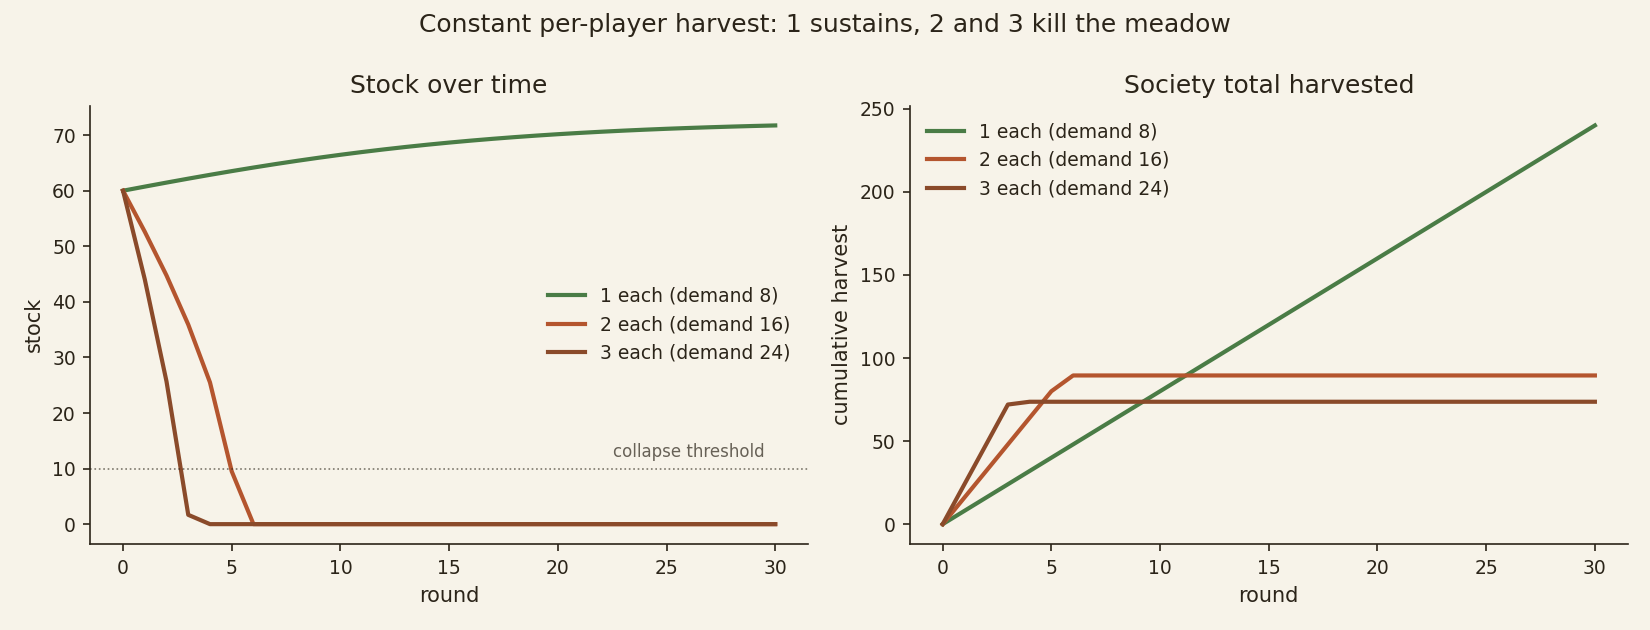
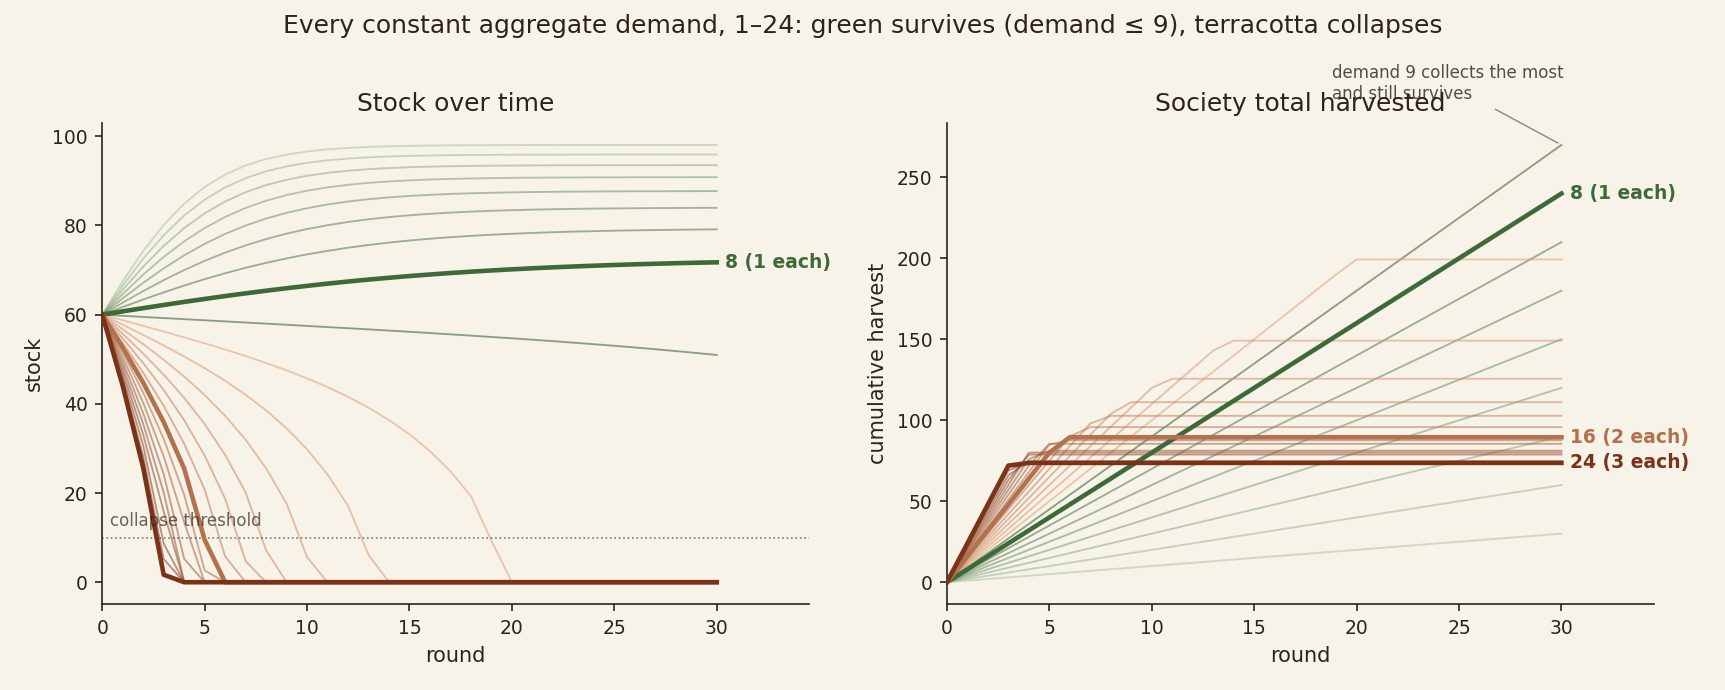
figures: granular constant-demand chart (all 24 levels) + interactive hoverable version

diff --git a/docs/assets/fig_constant_harvest.html b/docs/assets/fig_constant_harvest.html
@@ -1,0 +1,126 @@
+<!doctype html>
+<html lang="en">
+<head>
+<meta charset="utf-8">
+<meta name="viewport" content="width=device-width, initial-scale=1">
+<title>Meadow — constant aggregate demand, 1 to 24</title>
+<style>
+  :root { --ink: #2b2419; --paper: #f7f3e9; --faint: rgba(43,36,25,.14); }
+  * { box-sizing: border-box; margin: 0; }
+  body { background: var(--paper); color: var(--ink); font: 15px/1.45 Georgia, 'Times New Roman', serif; padding: 28px 20px 40px; }
+  .wrap { max-width: 1060px; margin: 0 auto; }
+  h1 { font-size: 19px; font-weight: 600; margin-bottom: 4px; }
+  .sub { font-size: 13px; opacity: .75; margin-bottom: 18px; }
+  .panels { display: flex; gap: 26px; flex-wrap: wrap; }
+  .panel { flex: 1 1 420px; min-width: 340px; }
+  .panel h2 { font-size: 14px; font-weight: 600; text-align: center; margin-bottom: 6px;
+              font-family: ui-monospace, 'SF Mono', Menlo, monospace; letter-spacing: .04em; }
+  svg { width: 100%; height: auto; display: block; }
+  .readout { margin-top: 14px; min-height: 3.2em; font-size: 13.5px; border-top: 1px solid var(--faint); padding-top: 10px; }
+  .readout b { font-family: ui-monospace, Menlo, monospace; }
+  .hint { opacity: .6; font-style: italic; }
+</style>
+</head>
+<body>
+<div class="wrap">
+  <h1>Every constant aggregate demand, 1&ndash;24</h1>
+  <div class="sub">Eight players, capacity 100, start 60, regrowth 0.35&middot;s&middot;(1&minus;s/100), collapse below 10, 30 rounds.
+  Green demands survive; terracotta demands kill the meadow. Bold: 8 (1 each), 16 (2 each), 24 (3 each).</div>
+  <div class="panels">
+    <div class="panel"><h2>STOCK OVER TIME</h2><svg id="stock" viewBox="0 0 560 340"></svg></div>
+    <div class="panel"><h2>SOCIETY TOTAL HARVESTED</h2><svg id="cum" viewBox="0 0 560 340"></svg></div>
+  </div>
+  <div class="readout" id="readout"><span class="hint">Hover (or tap) a line to isolate one demand level.</span></div>
+</div>
+<script>
+const DATA = {"1": {"stock": [60.0, 67.47, 74.27, 80.12, 84.9, 88.63, 91.42, 93.46, 94.9, 95.9, 96.6, 97.07, 97.39, 97.61, 97.76, 97.85, 97.92, 97.97, 98.0, 98.02, 98.03, 98.04, 98.04, 98.05, 98.05, 98.05, 98.05, 98.05, 98.06, 98.06, 98.06], "cumulative": [0.0, 1.0, 2.0, 3.0, 4.0, 5.0, 6.0, 7.0, 8.0, 9.0, 10.0, 11.0, 12.0, 13.0, 14.0, 15.0, 16.0, 17.0, 18.0, 19.0, 20.0, 21.0, 22.0, 23.0, 24.0, 25.0, 26.0, 27.0, 28.0, 29.0, 30.0], "survived": true}, "2": {"stock": [60.0, 66.53, 72.54, 77.81, 82.23, 85.78, 88.54, 90.61, 92.15, 93.25, 94.05, 94.61, 95.01, 95.28, 95.48, 95.61, 95.7, 95.77, 95.81, 95.84, 95.87, 95.88, 95.89, 95.9, 95.9, 95.91, 95.91, 95.91, 95.91, 95.91, 95.91], "cumulative": [0.0, 2.0, 4.0, 6.0, 8.0, 10.0, 12.0, 14.0, 16.0, 18.0, 20.0, 22.0, 24.0, 26.0, 28.0, 30.0, 32.0, 34.0, 36.0, 38.0, 40.0, 42.0, 44.0, 46.0, 48.0, 50.0, 52.0, 54.0, 56.0, 58.0, 60.0], "survived": true}, "3": {"stock": [60.0, 65.58, 70.77, 75.42, 79.41, 82.72, 85.38, 87.46, 89.05, 90.25, 91.15, 91.8, 92.28, 92.63, 92.88, 93.07, 93.2, 93.29, 93.36, 93.41, 93.44, 93.47, 93.49, 93.5, 93.51, 93.52, 93.52, 93.52, 93.53, 93.53, 93.53], "cumulative": [0.0, 3.0, 6.0, 9.0, 12.0, 15.0, 18.0, 21.0, 24.0, 27.0, 30.0, 33.0, 36.0, 39.0, 42.0, 45.0, 48.0, 51.0, 54.0, 57.0, 60.0, 63.0, 66.0, 69.0, 72.0, 75.0, 78.0, 81.0, 84.0, 87.0, 90.0], "survived": true}, "4": {"stock": [60.0, 64.62, 68.98, 72.94, 76.44, 79.43, 81.91, 83.94, 85.55, 86.82, 87.8, 88.55, 89.12, 89.55, 89.88, 90.12, 90.31, 90.44, 90.54, 90.62, 90.68, 90.72, 90.75, 90.77, 90.79, 90.8, 90.81, 90.82, 90.82, 90.83, 90.83], "cumulative": [0.0, 4.0, 8.0, 12.0, 16.0, 20.0, 24.0, 28.0, 32.0, 36.0, 40.0, 44.0, 48.0, 52.0, 56.0, 60.0, 64.0, 68.0, 72.0, 76.0, 80.0, 84.0, 88.0, 92.0, 96.0, 100.0, 104.0, 108.0, 112.0, 116.0, 120.0], "survived": true}, "5": {"stock": [60.0, 63.66, 67.15, 70.38, 73.3, 75.88, 78.11, 79.99, 81.55, 82.83, 83.87, 84.71, 85.37, 85.89, 86.3, 86.62, 86.87, 87.07, 87.22, 87.33, 87.43, 87.5, 87.55, 87.59, 87.62, 87.65, 87.67, 87.68, 87.69, 87.7, 87.71], "cumulative": [0.0, 5.0, 10.0, 15.0, 20.0, 25.0, 30.0, 35.0, 40.0, 45.0, 50.0, 55.0, 60.0, 65.0, 70.0, 75.0, 80.0, 85.0, 90.0, 95.0, 100.0, 105.0, 110.0, 115.0, 120.0, 125.0, 130.0, 135.0, 140.0, 145.0, 150.0], "survived": true}, "6": {"stock": [60.0, 62.69, 65.29, 67.74, 70.0, 72.07, 73.91, 75.54, 76.95, 78.17, 79.2, 80.06, 80.79, 81.39, 81.88, 82.29, 82.62, 82.89, 83.11, 83.29, 83.43, 83.55, 83.64, 83.72, 83.78, 83.83, 83.87, 83.9, 83.92, 83.95, 83.96], "cumulative": [0.0, 6.0, 12.0, 18.0, 24.0, 30.0, 36.0, 42.0, 48.0, 54.0, 60.0, 66.0, 72.0, 78.0, 84.0, 90.0, 96.0, 102.0, 108.0, 114.0, 120.0, 126.0, 132.0, 138.0, 144.0, 150.0, 156.0, 162.0, 168.0, 174.0, 180.0], "survived": true}, "7": {"stock": [60.0, 61.72, 63.39, 65.0, 66.52, 67.96, 69.29, 70.51, 71.62, 72.62, 73.52, 74.31, 75.01, 75.63, 76.16, 76.63, 77.03, 77.38, 77.67, 77.93, 78.14, 78.33, 78.49, 78.62, 78.73, 78.83, 78.91, 78.98, 79.04, 79.09, 79.13], "cumulative": [0.0, 7.0, 14.0, 21.0, 28.0, 35.0, 42.0, 49.0, 56.0, 63.0, 70.0, 77.0, 84.0, 91.0, 98.0, 105.0, 112.0, 119.0, 126.0, 133.0, 140.0, 147.0, 154.0, 161.0, 168.0, 175.0, 182.0, 189.0, 196.0, 203.0, 210.0], "survived": true}, "8": {"stock": [60.0, 60.74, 61.46, 62.17, 62.86, 63.52, 64.17, 64.78, 65.37, 65.93, 66.46, 66.96, 67.43, 67.87, 68.28, 68.66, 69.01, 69.34, 69.64, 69.91, 70.17, 70.4, 70.61, 70.8, 70.98, 71.14, 71.29, 71.42, 71.54, 71.65, 71.74], "cumulative": [0.0, 8.0, 16.0, 24.0, 32.0, 40.0, 48.0, 56.0, 64.0, 72.0, 80.0, 88.0, 96.0, 104.0, 112.0, 120.0, 128.0, 136.0, 144.0, 152.0, 160.0, 168.0, 176.0, 184.0, 192.0, 200.0, 208.0, 216.0, 224.0, 232.0, 240.0], "survived": true}, "9": {"stock": [60.0, 59.75, 59.49, 59.24, 58.99, 58.74, 58.49, 58.24, 57.99, 57.74, 57.48, 57.22, 56.96, 56.7, 56.43, 56.16, 55.88, 55.59, 55.3, 55.0, 54.7, 54.38, 54.06, 53.72, 53.38, 53.02, 52.64, 52.25, 51.84, 51.41, 50.96], "cumulative": [0.0, 9.0, 18.0, 27.0, 36.0, 45.0, 54.0, 63.0, 72.0, 81.0, 90.0, 99.0, 108.0, 117.0, 126.0, 135.0, 144.0, 153.0, 162.0, 171.0, 180.0, 189.0, 198.0, 207.0, 216.0, 225.0, 234.0, 243.0, 252.0, 261.0, 270.0], "survived": true}, "10": {"stock": [60.0, 58.75, 57.49, 56.22, 54.92, 53.58, 52.19, 50.72, 49.17, 47.51, 45.72, 43.75, 41.58, 39.14, 36.37, 33.17, 29.39, 24.87, 19.3, 9.3, 0.0, 0.0, 0.0, 0.0, 0.0, 0.0, 0.0, 0.0, 0.0, 0.0, 0.0], "cumulative": [0.0, 10.0, 20.0, 30.0, 40.0, 50.0, 60.0, 70.0, 80.0, 90.0, 100.0, 110.0, 120.0, 130.0, 140.0, 150.0, 160.0, 170.0, 180.0, 190.0, 199.3, 199.3, 199.3, 199.3, 199.3, 199.3, 199.3, 199.3, 199.3, 199.3, 199.3], "survived": false}, "11": {"stock": [60.0, 57.75, 55.46, 53.1, 50.63, 48.01, 45.17, 42.04, 38.53, 34.51, 29.81, 24.15, 17.15, 6.15, 0.0, 0.0, 0.0, 0.0, 0.0, 0.0, 0.0, 0.0, 0.0, 0.0, 0.0, 0.0, 0.0, 0.0, 0.0, 0.0, 0.0], "cumulative": [0.0, 11.0, 22.0, 33.0, 44.0, 55.0, 66.0, 77.0, 88.0, 99.0, 110.0, 121.0, 132.0, 143.0, 149.15, 149.15, 149.15, 149.15, 149.15, 149.15, 149.15, 149.15, 149.15, 149.15, 149.15, 149.15, 149.15, 149.15, 149.15, 149.15, 149.15], "survived": false}, "12": {"stock": [60.0, 56.74, 53.39, 49.88, 46.12, 41.98, 37.33, 31.95, 25.54, 17.64, 5.64, 0.0, 0.0, 0.0, 0.0, 0.0, 0.0, 0.0, 0.0, 0.0, 0.0, 0.0, 0.0, 0.0, 0.0, 0.0, 0.0, 0.0, 0.0, 0.0, 0.0], "cumulative": [0.0, 12.0, 24.0, 36.0, 48.0, 60.0, 72.0, 84.0, 96.0, 108.0, 120.0, 125.64, 125.64, 125.64, 125.64, 125.64, 125.64, 125.64, 125.64, 125.64, 125.64, 125.64, 125.64, 125.64, 125.64, 125.64, 125.64, 125.64, 125.64, 125.64, 125.64], "survived": false}, "13": {"stock": [60.0, 55.72, 51.28, 46.55, 41.36, 35.47, 28.56, 20.16, 7.16, 0.0, 0.0, 0.0, 0.0, 0.0, 0.0, 0.0, 0.0, 0.0, 0.0, 0.0, 0.0, 0.0, 0.0, 0.0, 0.0, 0.0, 0.0, 0.0, 0.0, 0.0, 0.0], "cumulative": [0.0, 13.0, 26.0, 39.0, 52.0, 65.0, 78.0, 91.0, 104.0, 111.16, 111.16, 111.16, 111.16, 111.16, 111.16, 111.16, 111.16, 111.16, 111.16, 111.16, 111.16, 111.16, 111.16, 111.16, 111.16, 111.16, 111.16, 111.16, 111.16, 111.16, 111.16], "survived": false}, "14": {"stock": [60.0, 54.69, 49.14, 43.12, 36.34, 28.41, 18.73, 4.73, 0.0, 0.0, 0.0, 0.0, 0.0, 0.0, 0.0, 0.0, 0.0, 0.0, 0.0, 0.0, 0.0, 0.0, 0.0, 0.0, 0.0, 0.0, 0.0, 0.0, 0.0, 0.0, 0.0], "cumulative": [0.0, 14.0, 28.0, 42.0, 56.0, 70.0, 84.0, 98.0, 102.73, 102.73, 102.73, 102.73, 102.73, 102.73, 102.73, 102.73, 102.73, 102.73, 102.73, 102.73, 102.73, 102.73, 102.73, 102.73, 102.73, 102.73, 102.73, 102.73, 102.73, 102.73, 102.73], "survived": false}, "15": {"stock": [60.0, 53.66, 46.96, 39.57, 31.06, 20.78, 5.78, 0.0, 0.0, 0.0, 0.0, 0.0, 0.0, 0.0, 0.0, 0.0, 0.0, 0.0, 0.0, 0.0, 0.0, 0.0, 0.0, 0.0, 0.0, 0.0, 0.0, 0.0, 0.0, 0.0, 0.0], "cumulative": [0.0, 15.0, 30.0, 45.0, 60.0, 75.0, 90.0, 95.78, 95.78, 95.78, 95.78, 95.78, 95.78, 95.78, 95.78, 95.78, 95.78, 95.78, 95.78, 95.78, 95.78, 95.78, 95.78, 95.78, 95.78, 95.78, 95.78, 95.78, 95.78, 95.78, 95.78], "survived": false}, "16": {"stock": [60.0, 52.62, 44.75, 35.92, 25.5, 9.5, 0.0, 0.0, 0.0, 0.0, 0.0, 0.0, 0.0, 0.0, 0.0, 0.0, 0.0, 0.0, 0.0, 0.0, 0.0, 0.0, 0.0, 0.0, 0.0, 0.0, 0.0, 0.0, 0.0, 0.0, 0.0], "cumulative": [0.0, 16.0, 32.0, 48.0, 64.0, 80.0, 89.5, 89.5, 89.5, 89.5, 89.5, 89.5, 89.5, 89.5, 89.5, 89.5, 89.5, 89.5, 89.5, 89.5, 89.5, 89.5, 89.5, 89.5, 89.5, 89.5, 89.5, 89.5, 89.5, 89.5, 89.5], "survived": false}, "17": {"stock": [60.0, 51.58, 42.5, 32.14, 19.64, 2.64, 0.0, 0.0, 0.0, 0.0, 0.0, 0.0, 0.0, 0.0, 0.0, 0.0, 0.0, 0.0, 0.0, 0.0, 0.0, 0.0, 0.0, 0.0, 0.0, 0.0, 0.0, 0.0, 0.0, 0.0, 0.0], "cumulative": [0.0, 17.0, 34.0, 51.0, 68.0, 85.0, 87.64, 87.64, 87.64, 87.64, 87.64, 87.64, 87.64, 87.64, 87.64, 87.64, 87.64, 87.64, 87.64, 87.64, 87.64, 87.64, 87.64, 87.64, 87.64, 87.64, 87.64, 87.64, 87.64, 87.64, 87.64], "survived": false}, "18": {"stock": [60.0, 50.53, 40.21, 28.25, 13.47, 0.0, 0.0, 0.0, 0.0, 0.0, 0.0, 0.0, 0.0, 0.0, 0.0, 0.0, 0.0, 0.0, 0.0, 0.0, 0.0, 0.0, 0.0, 0.0, 0.0, 0.0, 0.0, 0.0, 0.0, 0.0, 0.0], "cumulative": [0.0, 18.0, 36.0, 54.0, 72.0, 85.47, 85.47, 85.47, 85.47, 85.47, 85.47, 85.47, 85.47, 85.47, 85.47, 85.47, 85.47, 85.47, 85.47, 85.47, 85.47, 85.47, 85.47, 85.47, 85.47, 85.47, 85.47, 85.47, 85.47, 85.47, 85.47], "survived": false}, "19": {"stock": [60.0, 49.47, 37.88, 24.24, 5.24, 0.0, 0.0, 0.0, 0.0, 0.0, 0.0, 0.0, 0.0, 0.0, 0.0, 0.0, 0.0, 0.0, 0.0, 0.0, 0.0, 0.0, 0.0, 0.0, 0.0, 0.0, 0.0, 0.0, 0.0, 0.0, 0.0], "cumulative": [0.0, 19.0, 38.0, 57.0, 76.0, 81.24, 81.24, 81.24, 81.24, 81.24, 81.24, 81.24, 81.24, 81.24, 81.24, 81.24, 81.24, 81.24, 81.24, 81.24, 81.24, 81.24, 81.24, 81.24, 81.24, 81.24, 81.24, 81.24, 81.24, 81.24, 81.24], "survived": false}, "20": {"stock": [60.0, 48.4, 35.52, 20.11, 0.11, 0.0, 0.0, 0.0, 0.0, 0.0, 0.0, 0.0, 0.0, 0.0, 0.0, 0.0, 0.0, 0.0, 0.0, 0.0, 0.0, 0.0, 0.0, 0.0, 0.0, 0.0, 0.0, 0.0, 0.0, 0.0, 0.0], "cumulative": [0.0, 20.0, 40.0, 60.0, 80.0, 80.11, 80.11, 80.11, 80.11, 80.11, 80.11, 80.11, 80.11, 80.11, 80.11, 80.11, 80.11, 80.11, 80.11, 80.11, 80.11, 80.11, 80.11, 80.11, 80.11, 80.11, 80.11, 80.11, 80.11, 80.11, 80.11], "survived": false}, "21": {"stock": [60.0, 47.33, 33.11, 15.84, 0.0, 0.0, 0.0, 0.0, 0.0, 0.0, 0.0, 0.0, 0.0, 0.0, 0.0, 0.0, 0.0, 0.0, 0.0, 0.0, 0.0, 0.0, 0.0, 0.0, 0.0, 0.0, 0.0, 0.0, 0.0, 0.0, 0.0], "cumulative": [0.0, 21.0, 42.0, 63.0, 78.84, 78.84, 78.84, 78.84, 78.84, 78.84, 78.84, 78.84, 78.84, 78.84, 78.84, 78.84, 78.84, 78.84, 78.84, 78.84, 78.84, 78.84, 78.84, 78.84, 78.84, 78.84, 78.84, 78.84, 78.84, 78.84, 78.84], "survived": false}, "22": {"stock": [60.0, 46.25, 30.67, 8.67, 0.0, 0.0, 0.0, 0.0, 0.0, 0.0, 0.0, 0.0, 0.0, 0.0, 0.0, 0.0, 0.0, 0.0, 0.0, 0.0, 0.0, 0.0, 0.0, 0.0, 0.0, 0.0, 0.0, 0.0, 0.0, 0.0, 0.0], "cumulative": [0.0, 22.0, 44.0, 66.0, 74.67, 74.67, 74.67, 74.67, 74.67, 74.67, 74.67, 74.67, 74.67, 74.67, 74.67, 74.67, 74.67, 74.67, 74.67, 74.67, 74.67, 74.67, 74.67, 74.67, 74.67, 74.67, 74.67, 74.67, 74.67, 74.67, 74.67], "survived": false}, "23": {"stock": [60.0, 45.16, 28.2, 5.2, 0.0, 0.0, 0.0, 0.0, 0.0, 0.0, 0.0, 0.0, 0.0, 0.0, 0.0, 0.0, 0.0, 0.0, 0.0, 0.0, 0.0, 0.0, 0.0, 0.0, 0.0, 0.0, 0.0, 0.0, 0.0, 0.0, 0.0], "cumulative": [0.0, 23.0, 46.0, 69.0, 74.2, 74.2, 74.2, 74.2, 74.2, 74.2, 74.2, 74.2, 74.2, 74.2, 74.2, 74.2, 74.2, 74.2, 74.2, 74.2, 74.2, 74.2, 74.2, 74.2, 74.2, 74.2, 74.2, 74.2, 74.2, 74.2, 74.2], "survived": false}, "24": {"stock": [60.0, 44.06, 25.68, 1.68, 0.0, 0.0, 0.0, 0.0, 0.0, 0.0, 0.0, 0.0, 0.0, 0.0, 0.0, 0.0, 0.0, 0.0, 0.0, 0.0, 0.0, 0.0, 0.0, 0.0, 0.0, 0.0, 0.0, 0.0, 0.0, 0.0, 0.0], "cumulative": [0.0, 24.0, 48.0, 72.0, 73.68, 73.68, 73.68, 73.68, 73.68, 73.68, 73.68, 73.68, 73.68, 73.68, 73.68, 73.68, 73.68, 73.68, 73.68, 73.68, 73.68, 73.68, 73.68, 73.68, 73.68, 73.68, 73.68, 73.68, 73.68, 73.68, 73.68], "survived": false}};
+const INK = '#2b2419';
+const CALLOUTS = {8: '8 (1 each)', 16: '16 (2 each)', 24: '24 (3 each)'};
+const M = {l: 46, r: 78, t: 12, b: 34}, W = 560, H = 340;
+
+function colorFor(d) {
+  const v = DATA[d];
+  if (v.survived) { const t = (d - 1) / 8; return lerp3('#a8c4a0', '#2f5d2b', t); }
+  const t = (d - 10) / 14; return lerp3('#e0a075', '#7a3218', t);
+}
+function lerp3(a, b, t) {
+  const pa = [1, 3, 5].map(i => parseInt(a.slice(i, i + 2), 16));
+  const pb = [1, 3, 5].map(i => parseInt(b.slice(i, i + 2), 16));
+  return '#' + pa.map((v, i) => Math.round(v + (pb[i] - v) * t).toString(16).padStart(2, '0')).join('');
+}
+
+function buildPanel(svgId, key, yMax, yLabel) {
+  const svg = document.getElementById(svgId);
+  const ns = 'http://www.w3.org/2000/svg';
+  const px = r => M.l + (W - M.l - M.r) * r / 30;
+  const py = v => H - M.b - (H - M.t - M.b) * v / yMax;
+  const mk = (tag, attrs, parent) => { const el = document.createElementNS(ns, tag);
+    for (const [k, v] of Object.entries(attrs)) el.setAttribute(k, v); (parent || svg).appendChild(el); return el; };
+
+  for (let g = 0; g <= 4; g++) {
+    const v = yMax * g / 4;
+    mk('line', {x1: M.l, x2: W - M.r, y1: py(v), y2: py(v), stroke: 'rgba(43,36,25,.10)', 'stroke-width': 1});
+    mk('text', {x: M.l - 6, y: py(v) + 4, 'text-anchor': 'end', 'font-size': 10, fill: INK, opacity: .7}).textContent = Math.round(v);
+  }
+  for (let r = 0; r <= 30; r += 5) {
+    mk('text', {x: px(r), y: H - M.b + 16, 'text-anchor': 'middle', 'font-size': 10, fill: INK, opacity: .7}).textContent = r;
+  }
+  mk('text', {x: (M.l + W - M.r) / 2, y: H - 4, 'text-anchor': 'middle', 'font-size': 11, fill: INK, opacity: .8}).textContent = 'round';
+  if (key === 'stock') {
+    mk('line', {x1: M.l, x2: W - M.r, y1: py(10), y2: py(10), stroke: INK, 'stroke-width': 1, 'stroke-dasharray': '2 3', opacity: .5});
+    mk('text', {x: M.l + 4, y: py(10) - 5, 'font-size': 9.5, fill: INK, opacity: .6}).textContent = 'collapse threshold';
+  }
+
+  for (let d = 1; d <= 24; d++) {
+    const v = DATA[d][key];
+    const dAttr = v.map((y, i) => (i ? 'L' : 'M') + px(i).toFixed(1) + ' ' + py(y).toFixed(1)).join('');
+    const bold = d in CALLOUTS;
+    const path = mk('path', {d: dAttr, fill: 'none', stroke: colorFor(d),
+      'stroke-width': bold ? 2.4 : 1.1, opacity: bold ? 1 : .5, 'data-demand': d, class: 'demand-line'});
+    mk('path', {d: dAttr, fill: 'none', stroke: 'transparent', 'stroke-width': 9, 'data-demand': d, class: 'hit'});
+    if (bold && key === 'cum') {
+      mk('text', {x: px(30) + 5, y: py(v[30]) + 4, 'font-size': 10.5, 'font-weight': 'bold', fill: colorFor(d)}).textContent = CALLOUTS[d];
+    }
+  }
+  if (key === 'stock') {
+    mk('text', {x: px(30) + 5, y: py(DATA[8].stock[30]) + 4, 'font-size': 10.5, 'font-weight': 'bold', fill: colorFor(8)}).textContent = '8 (1 each)';
+  }
+}
+
+buildPanel('stock', 'stock', 100, 'stock');
+buildPanel('cum', 'cumulative', 280, 'cumulative harvest');
+
+const readout = document.getElementById('readout');
+function setFocus(d) {
+  document.querySelectorAll('.demand-line').forEach(p => {
+    const mine = +p.dataset.demand === d;
+    const bold = p.dataset.demand in CALLOUTS;
+    if (d === null) { p.setAttribute('opacity', bold ? 1 : .5); p.setAttribute('stroke-width', bold ? 2.4 : 1.1); }
+    else { p.setAttribute('opacity', mine ? 1 : .12); p.setAttribute('stroke-width', mine ? 2.6 : 1); }
+  });
+  if (d === null) {
+    readout.innerHTML = '<span class="hint">Hover (or tap) a line to isolate one demand level.</span>';
+  } else {
+    const v = DATA[d];
+    const per = d % 8 === 0 ? (d / 8) + ' each' : 'mixed seats averaging ' + (d / 8).toFixed(2);
+    const fate = v.survived
+      ? 'survives; final stock ' + v.stock[30].toFixed(1)
+      : 'collapses in round ' + v.stock.findIndex(s => s < 10);
+    readout.innerHTML = '<b>demand ' + d + '</b> (' + per + ') &mdash; ' + fate +
+      '; society collects <b>' + v.cumulative[30].toFixed(0) + '</b> over 30 rounds.';
+  }
+}
+document.querySelectorAll('svg').forEach(svg => {
+  svg.addEventListener('mousemove', e => {
+    const t = e.target.closest('[data-demand]');
+    setFocus(t ? +t.dataset.demand : null);
+  });
+  svg.addEventListener('mouseleave', () => setFocus(null));
+  svg.addEventListener('click', e => {
+    const t = e.target.closest('[data-demand]');
+    setFocus(t ? +t.dataset.demand : null);
+  });
+});
+</script>
+</body>
+</html>

diff --git a/docs/blog-post.md b/docs/blog-post.md
@@ -26,11 +26,15 @@ integer 0–3. The stock regrows by `0.35 · stock · (1 − stock/100)` per rou
 capacity. Below 10, the stock is dead permanently. An episode is 30 rounds (60 for scripted calibration); a
 player's score is its total harvest.
 
-The dynamics are unforgiving of small errors in aggregate demand. If all eight players harvest 1 per round
-(demand 8, just under peak regrowth), the stock grows while they harvest and the society collects more by round 10
-than a greedy society collects all game. At 2 each (demand 16), the stock is dead by round 6:
+The dynamics are unforgiving of small errors in aggregate demand. Holding every constant aggregate demand from 1
+to 24 fixed for 30 rounds: demand 9 and below survives, demand 10 and above kills the meadow. At 8 (1 per player),
+the stock grows while the society harvests, and it out-collects every greedy strategy by round 10. At 16 (2 each),
+the stock is dead by round 6:
 
 ![constant harvest](../experiments/results/fig_constant_harvest.png)
+
+*An [interactive version of this figure](assets/fig_constant_harvest.html) lets you hover to isolate any demand
+level (download and open in a browser, or view via the repo's pages deployment if enabled).*
 
 The social optimum is computable: a dynamic program over aggregate demand gives the best achievable group welfare
 (total harvest plus residual stock). We also track survival, collapse round, sanction counts, and synchrony (mean
